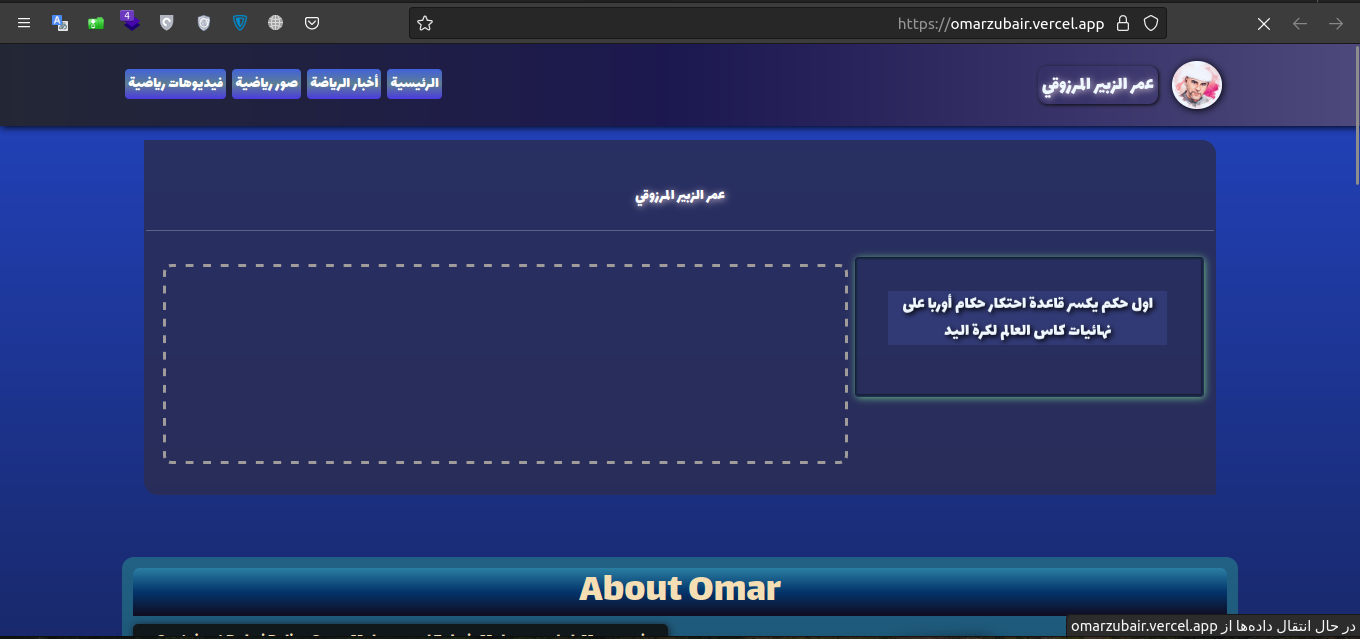
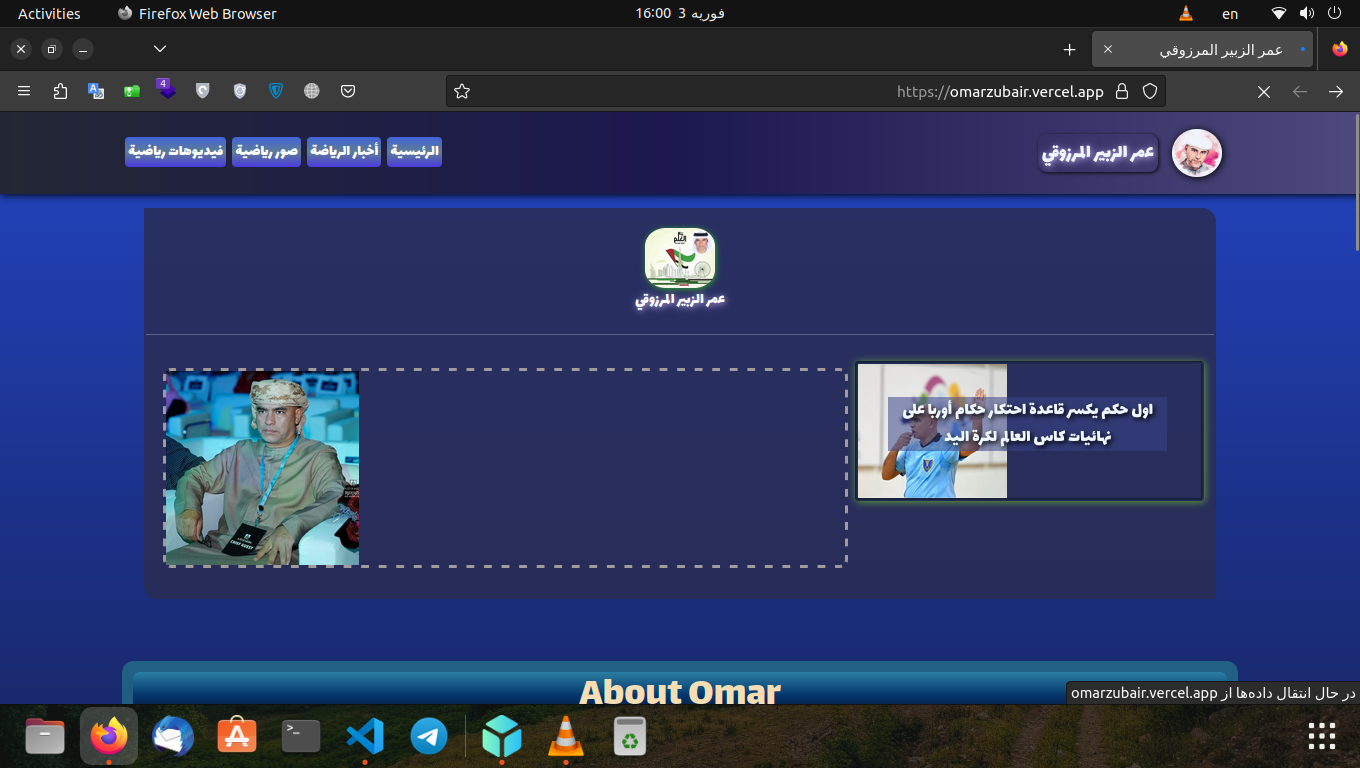
new

diff --git a/app.py b/app.py
@@ -93,11 +93,11 @@ with st.container():
     
 
     with col2:
-        with st.expander(" آموزشگاه رانندگی جزیره" ,expanded=True):
-            st.image("https://abdollahchelasi.vercel.app/amoozesh.png")
+        with st.expander("عمر الزبير المرزوقي" ,expanded=True):
+            st.image("/images/omar.png")
             st.write("""
-آموزشگاه رانندگی جزیره ای در جزیره زیبای قشم    """)
-            st.markdown("[Island driving school](http://amoozeshgahjazire.ir/)")
+اول حكم يكسر قاعدة احتكار حكام أوربا على نهائيات كاس العالم لكرة اليد """)
+            st.markdown("[عمر الزبير المرزوقي](http://amoozeshgahjazire.ir/)")
     
         with col2:
             with st.expander("Mazaya Car Rental, Dubai" ,expanded=True):
